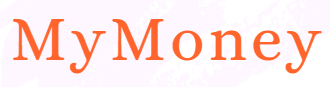
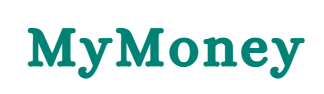
Authentication completed

Changed region(s): [[0.0309, 0.2069, 0.9877, 0.8506]]

diff --git a/frontend/src/components/Auth/AuthForm.js b/frontend/src/components/Auth/AuthForm.js
@@ -1,12 +1,31 @@
-import React from "react";
+import React, { useState } from "react";
 
 const AuthForm = () => {
+  const [isLoggedIn, setIsLoggedIn] = useState(true);
+  const loginViewHandler = () => {
+    setIsLoggedIn(true);
+  };
+  const signupViewHandler = () => {
+    setIsLoggedIn(false);
+  };
   return (
-    <div className="flex  justify-center items-center w-full h-[80%]">
-      <form className=" w-[90%] max-w-[388px]  p-8 card">
-        <h1 className="headings-font text-2xl font-semibold mb-6">
-          Create Your account
+    <div className="flex  justify-center items-center w-full h-[90%]">
+      <form className=" w-[90%] max-w-[428px]  p-8 card bg-white">
+        <h1 className="headings-font text-2xl font-semibold mb-4">
+          {isLoggedIn ? "Log in" : "Create Your account"}
         </h1>
+        {!isLoggedIn && (
+          <div className=" mb-4">
+            <label htmlFor="name" className="block para-font  text-base">
+              Name
+            </label>
+            <input
+              type="text"
+              className="mt-3 block w-full px-3 py-2 border-2  rounded-md text-sm shadow-sm
+          focus:outline-none focus:border-sky-500 focus:ring-1 focus:ring-sky-500"
+            />
+          </div>
+        )}
         <div className=" mb-4">
           <label htmlFor="email" className="block para-font  text-base">
             Email
@@ -18,18 +37,27 @@ const AuthForm = () => {
           />
         </div>
         <div className="mb-8">
-          <label htmlFor="email" className="block para-font  text-base">
+          <label htmlFor="password" className="block para-font  text-base">
             Password
           </label>
           <input
             type="password"
+            id="password"
             className="mt-3 block w-full px-3 py-2 border-2  rounded-md text-sm shadow-sm
           focus:outline-none focus:border-sky-500 focus:ring-1 focus:ring-sky-500"
           />
         </div>
-        <button className="block para-font rounded text-white w-full py-2 text-base brand-bg-color">
-          Create Account
+        <button className="block para-font rounded text-white w-full py-2 text-base brand-bg-color mb-4">
+          {!isLoggedIn ? "Log in" : "Create Account"}
         </button>
+        <p
+          className=" mb-2 brand-color cursor-pointer font-medium"
+          onClick={isLoggedIn ? signupViewHandler : loginViewHandler}
+        >
+          {isLoggedIn
+            ? "New to My Money? Sign up"
+            : "Already have an account? Login"}
+        </p>
       </form>
     </div>
   );

diff --git a/frontend/src/index.css b/frontend/src/index.css
@@ -13,13 +13,13 @@
   background-image: url("C:\Users\laksh\OneDrive\Documents\SharpenerProjects\ReactJs\MyMoney\frontend\src\assets\background.png");
 }
 .brand-color {
-  color: #ff642d;
+  color: #008275;
 }
 
 .brand-bg-color {
-  background-color: #ff642d;
+  background-color: #00bc90;
 }
 .card {
   border-radius: 16px;
-  box-shadow: rgba(21, 22, 24, 0.1) 5px 5px 50px;
+  box-shadow: rgba(21, 22, 24, 0.1) 3px 3px 30px;
 }
